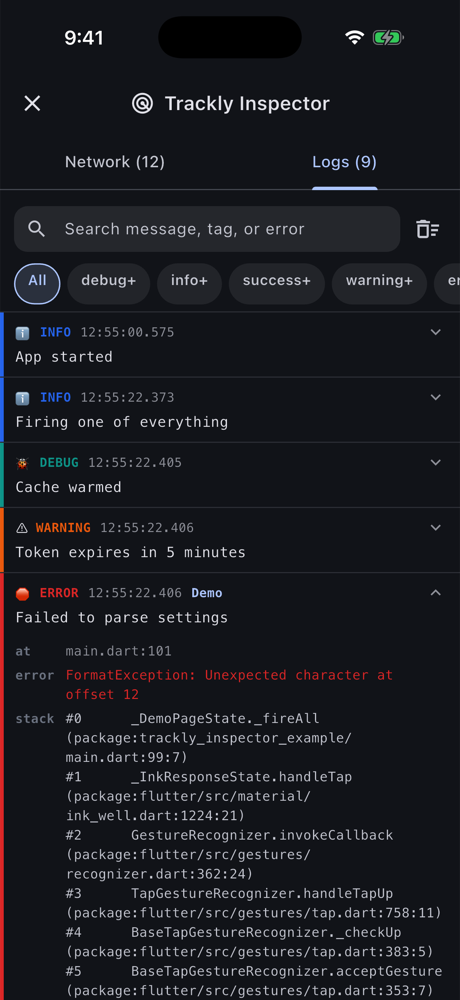
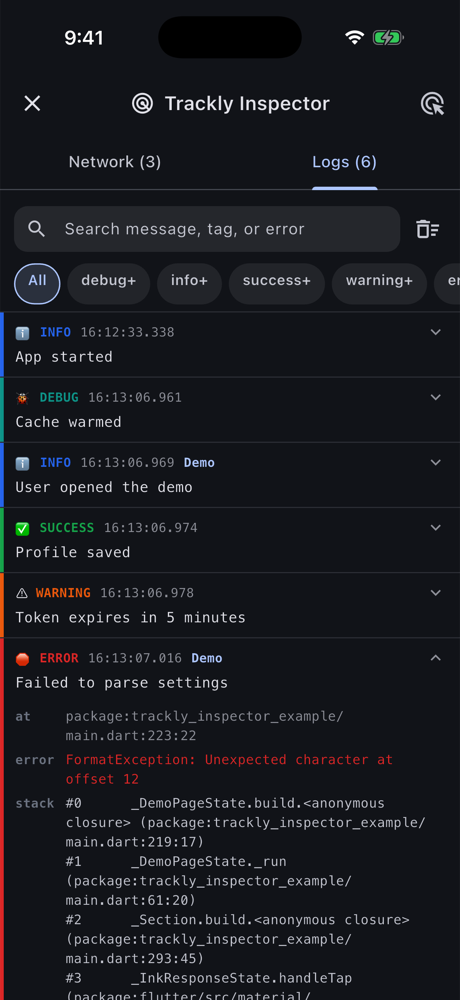
Use trackly_logger 0.2.0 and show full log locations (0.3.0)
trackly_logger 0.2.0 ends each log with a location such as
(package:app/login_page.dart:42:7), which VS Code and Android Studio turn
into a link to the code, and turns colors off by default on iOS. The Logs
tab now shows each log's full location.

This package re-exports trackly_logger, whose TracklyRecord constructor
replaced its caller parameter with location, so this is a minor bump.

diff --git a/lib/src/ui/logs_tab.dart b/lib/src/ui/logs_tab.dart
@@ -139,7 +139,7 @@ class _LogTileState extends State<_LogTile> {
     final color = levelColor(record.level);
     final extra = record.extra;
     final hasDetails =
-        record.caller != null ||
+        record.location != null ||
         (extra != null && extra.isNotEmpty) ||
         record.error != null ||
         record.stackTrace != null;
@@ -199,8 +199,8 @@ class _LogTileState extends State<_LogTile> {
             ),
             if (_expanded && hasDetails) ...[
               const SizedBox(height: 8),
-              if (record.caller != null)
-                _Detail('at', record.caller!, colors.outline),
+              if (record.location case final location?)
+                _Detail('at', location.link, colors.outline),
               if (extra != null && extra.isNotEmpty)
                 _Detail(
                   'extra',

diff --git a/test/inspector_test.dart b/test/inspector_test.dart
@@ -127,6 +127,14 @@ void main() {
     await tester.tap(find.text('Logs (1)'));
     await tester.pumpAndSettle();
     expect(find.text('Token expires soon'), findsOneWidget);
+
+    // Expanding the log shows the full, clickable location.
+    await tester.tap(find.text('Token expires soon'));
+    await tester.pumpAndSettle();
+    expect(
+      find.textContaining(RegExp(r'inspector_test\.dart:\d+:\d+$')),
+      findsOneWidget,
+    );
     expect(find.text('Auth'), findsOneWidget);
   });
 

diff --git a/CHANGELOG.md b/CHANGELOG.md
@@ -1,3 +1,15 @@
+## 0.3.0
+
+* Uses `trackly_logger` 0.2.0, which this package re-exports:
+  * Logs end with a clickable location, such as
+    `(package:app/login_page.dart:42:7)`, that opens the code in VS Code and
+    Android Studio.
+  * Colors are off by default on iOS, where logs showed the color codes as
+    text.
+  * **Breaking**: `TracklyRecord`'s `caller` constructor parameter is replaced
+    by `location`. Reading `record.caller` still works.
+* The Logs tab shows each log's full location.
+
 ## 0.2.1
 
 * Inspect mode is much faster on apps with a lot of recorded traffic:
